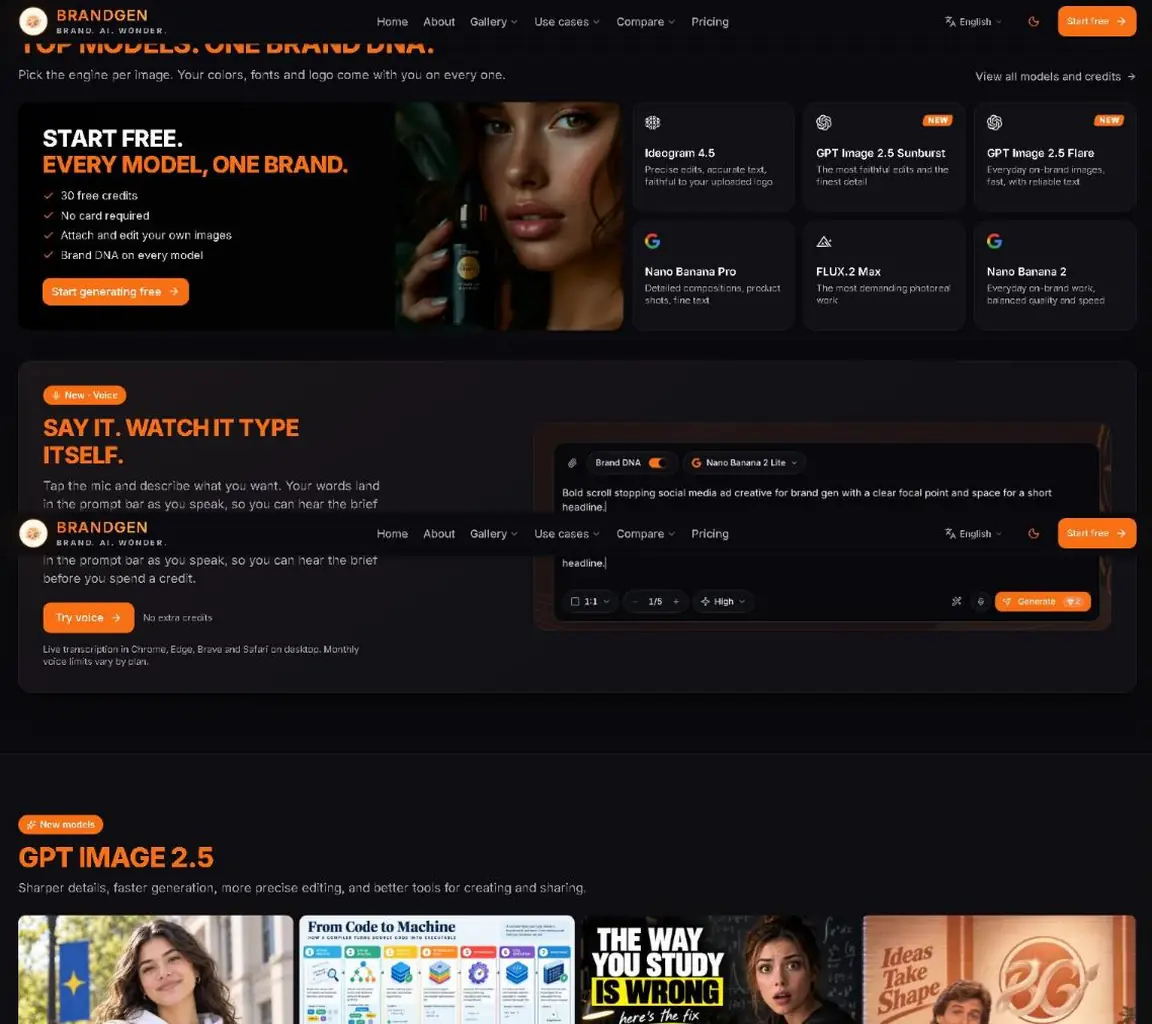
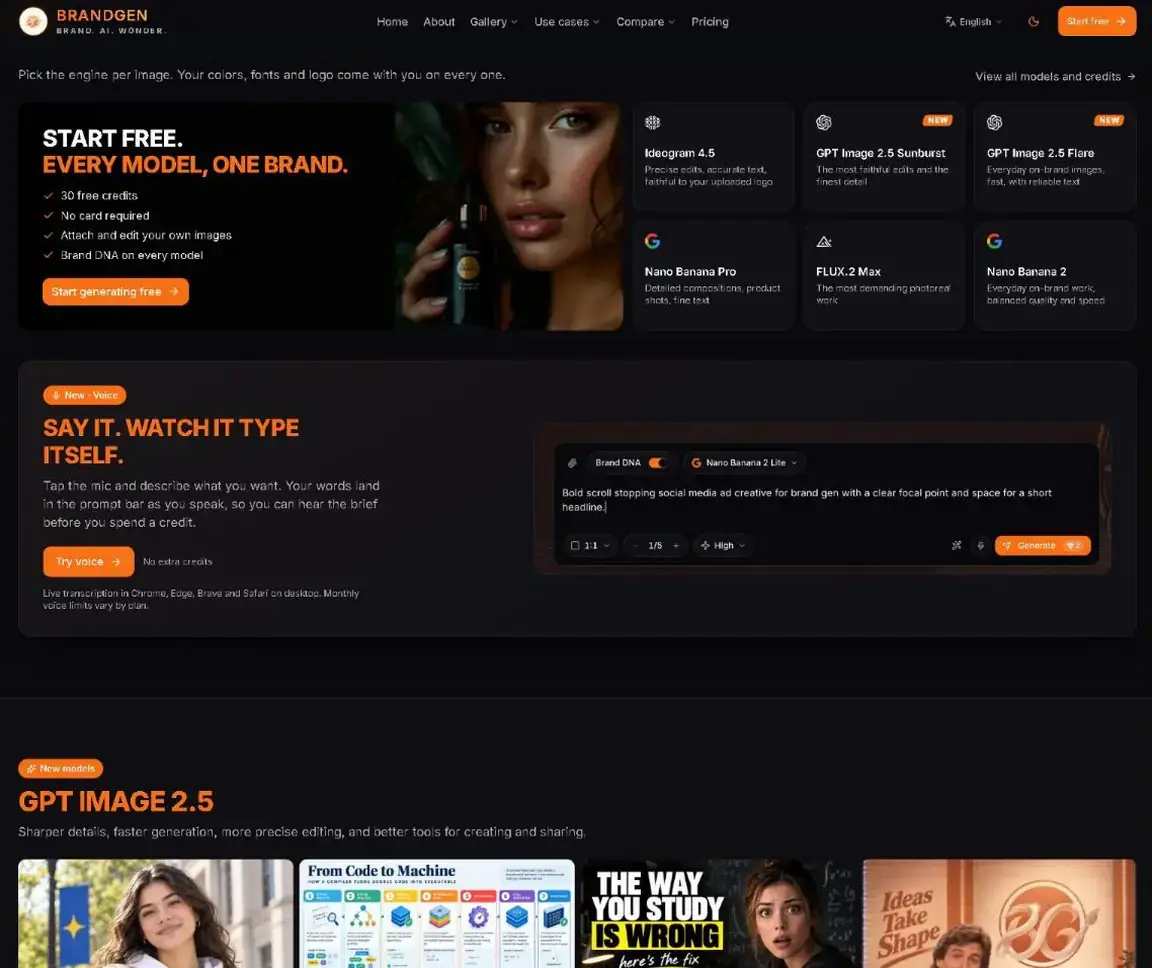
Final QA fixes: hero stats fit phones, BrandGen screenshot repaired, one bug-fix wording
- Focus-page hero stats: rows with a price range use a smaller number size on
  phones, so "₹4.4k–₹9.4k" and "₹10k–₹80k" no longer run into the next stat
- Home stats: labels no longer touch the dividers at 390px
- BrandGen work screenshot: removed the sticky header that was stitched into
  the middle and the heading cut off under the top bar
- After-launch support: step 04 now says the same "15–30 day bug-fix window"
  as the strip, pricing and FAQs
- Home hero search card: "Found on Google" instead of "Found, first page"
  (no ranking promise); website card "From ₹25,000, fixed"
- Meta descriptions trimmed to ≤160 characters on 5 pages
- Footer: location stated once; GA placeholder comment removed
- Freelancer guide: price card stays at the top of the sources column

Claude-Session: https://claude.ai/code/session_01PnNqLetZa1qM7x4YyDRdo5

diff --git a/source/src/index.src.html b/source/src/index.src.html
@@ -33,10 +33,6 @@
 <meta name="twitter:image:alt" content="U Scale by Mehul Karotra: Be found. Be chosen.">
 <link rel="preload" href="/assets/fonts/anton-latin.woff2" as="font" type="font/woff2" crossorigin><link rel="preload" href="/assets/fonts/inter-latin.woff2" as="font" type="font/woff2" crossorigin>
 <script type="application/ld+json">{{JSONLD}}</script>
-<!-- TODO: GA4 measurement ID. Replace G-XXXXXXXXXX and uncomment to go live:
-<script async src="https://www.googletagmanager.com/gtag/js?id=G-XXXXXXXXXX"></script>
-<script>window.dataLayer=window.dataLayer||[];function gtag(){dataLayer.push(arguments);}gtag('js',new Date());gtag('config','G-XXXXXXXXXX');</script>
--->
 <script>
 /* Intro gate: the loader plays once per browser session. Runs before first paint so returning visitors never see a flash. */
 (function(){var d=document.documentElement;d.classList.add('js');
@@ -360,7 +356,7 @@ if(m==='off')d.classList.add('rm');if(navigator.webdriver)d.classList.add('agent
   <div class="footer__big" aria-hidden="true" data-progress="foot"><span class="fb fb-out" data-t="By Mehul Karotra."></span><span class="fb-fill"><span class="fb">By Mehul Karotra.</span></span></div>
   <div class="wrap footer__bottom">
     <div class="footer__legal">
-      <p>© 2026 U Scale by Mehul Karotra · Mumbai, India.</p>
+      <p>© 2026 U Scale by Mehul Karotra.</p>
       <address class="footer__nap">Mumbai, Maharashtra · Serving Mumbai, Thane, Navi Mumbai &amp; clients across India · <a href="tel:+917977360142">+91 79773 60142</a> · <a href="mailto:uscalewithus@gmail.com">uscalewithus@gmail.com</a></address>
       <p class="footer__sister"><span>Sister company</span> <a href="https://www.apex36tech.com/" target="_blank" rel="noopener"><img src="/assets/apex36-mark.webp" width="22" height="19" alt="" loading="lazy" decoding="async">Apex36 Technologies<span class="sr-only"> (opens in a new tab)</span></a></p>
     </div>

diff --git a/source/src/seo.css b/source/src/seo.css
@@ -330,6 +330,7 @@ html.pin-ok .sp-process .step{opacity:1;transform:none}
 .fp-stats .stat__label{font-size:11.5px;letter-spacing:.08em;line-height:1.3;margin-top:7px}
 .fp-stats .stat{padding-right:8px}
 .fp-stats .stat+.stat{padding-left:clamp(10px,2.2vw,26px)}
+.fp-stats .stat__num--long{font-size:clamp(17px,4.6vw,30px)}
 @media (min-width:1024px){
   .fp-hero{grid-template-columns:minmax(0,1fr) minmax(0,1.08fr);align-items:center;column-gap:clamp(28px,3.4vw,56px)}
   .fp-art--img{max-width:660px;margin-right:clamp(-28px,-1.6vw,0px)}
@@ -753,7 +754,7 @@ html.pin-ok .sp-process .step{opacity:1;transform:none}
 .fp-pricecard b{grid-column:1;font:400 clamp(26px,3vw,34px)/1 var(--display);text-transform:uppercase;letter-spacing:.01em}
 .fp-pricecard>.fp-ic{grid-column:2;grid-row:1 / span 2;width:40px;height:40px;padding:10px;border-radius:50%;background:var(--violet);color:var(--white);transition:transform .4s var(--ease-out)}
 .fp-pricecard:hover>.fp-ic{transform:rotate(45deg)}
-@media (min-width:860px){.fp-foot{grid-template-columns:minmax(0,1.6fr) minmax(0,1fr);gap:16px;align-items:stretch}}
+@media (min-width:860px){.fp-foot{grid-template-columns:minmax(0,1.6fr) minmax(0,1fr);gap:16px;align-items:stretch}.fp-pricecard{align-self:start;position:sticky;top:calc(var(--header-h) + 16px)}}
 
 /* ---- related pages ---- */
 .fp-related{margin-top:clamp(28px,4vw,48px);display:grid;gap:14px}

diff --git a/source/src/styles.css b/source/src/styles.css
@@ -570,8 +570,8 @@ html.menu-open{overflow:hidden}
   .plan{padding:22px 20px}
   .pts{padding:20px 18px}
   .stats{grid-template-columns:auto auto auto;justify-content:space-between}
-  .stat{padding-right:0}
-  .stat + .stat{padding-left:14px}
+  .stat{padding-right:10px}
+  .stat + .stat{padding-left:12px}
   .stat__label{font-size:10.5px;letter-spacing:.06em}
   .channel{grid-template-columns:44px minmax(0,1fr) auto;gap:12px;padding:14px 16px}
   .channel__icon{width:44px;height:44px}

diff --git a/source/build/seo_pages.py b/source/build/seo_pages.py
@@ -16,7 +16,7 @@ WA = 'https://wa.me/917977360142?text=Hi%20Mehul%2C%20I%27d%20like%20to%20talk%2
 SERVICES = [
  dict(slug='website-design-mumbai', short='Website design', cta='website', name='Website Design & Development',
   title='Website Design in Mumbai from ₹25,000, Fixed Price | U Scale',
-  desc='Custom websites for Mumbai businesses, designed in Figma and hand-coded by Mehul Karotra. Landing page ₹25,000, business site ₹55,000, store from ₹95,000; live in 4–8 weeks.',
+  desc='Custom websites for Mumbai businesses, designed in Figma and hand-coded by Mehul Karotra. Landing page ₹25,000, business site ₹55,000; live in 4–8 weeks.',
   h1='Website design & development in Mumbai',
   lead='I am a freelance web designer and developer in Mumbai. I design every page in Figma and build it by hand, so what you approve is exactly what goes live, at a fixed price agreed before I start.',
   who='For clinics, schools, studios, cafés, startups and founders who need a site that looks premium, loads fast on a phone and turns visitors into WhatsApp chats, calls and enquiries.',
@@ -29,7 +29,7 @@ SERVICES = [
   steps=[('Audit','I review your current site or competitors and agree the goals, pages and must-haves.'),
          ('Design','You see real screens in Figma, desktop and mobile, and we refine them together.'),
          ('Build','I code the approved design, connect forms and analytics, and test on phones and browsers.'),
-         ('Launch','Domain, hosting, Search Console and a final check. Then small tweaks are on me for two weeks.')],
+         ('Launch','Domain, hosting, Search Console and a final check. Then bug fixes are free in the 15–30 day bug-fix window.')],
   price='Landing pages ₹25,000, business sites from ₹55,000, a 5–10 page site with blog ₹85,000, online stores from ₹95,000 and restaurant sites with online ordering ₹90,000. A redesign of your current site is 70% of the price of a fresh build, and a care plan is ₹3,500/month.',
   work=['tis','antrah','roar','sashe','vidhi','growcred'],
   faq=[('How much does a website cost in Mumbai?','It depends on the number of pages and features. I quote a fixed price after a free audit, so there are no surprises and no hourly billing.'),
@@ -39,7 +39,7 @@ SERVICES = [
        ('Can you redesign my existing website?','Yes. I start with an audit of what works and what leaks enquiries, then redesign around that.')]),
  dict(slug='seo-mumbai', short='SEO', cta='SEO', name='SEO Services',
   title='SEO Services in Mumbai: Local & Technical | U Scale',
-  desc='Local SEO and Google Business Profile from ₹15,000 a month, technical SEO ₹25,000, done personally by Mehul Karotra in Mumbai. Expect 3–6 months; no ranking guarantees.',
+  desc='Local SEO and Google Business Profile from ₹15,000 a month, technical SEO ₹25,000, by Mehul Karotra in Mumbai. Expect 3–6 months; no ranking guarantees.',
   h1='SEO services in Mumbai',
   lead='I work as a freelance SEO consultant for Mumbai businesses, helping you show up when nearby customers search on Google and Maps. Local SEO, technical fixes and content, done personally, with honest monthly reporting.',
   who='For local businesses that depend on people searching "near me", and for service businesses that want steady enquiries without paying for every click.',
@@ -106,7 +106,7 @@ SERVICES = [
        ('Will I see where my money goes?','Yes. You own the ad accounts and get a monthly report showing spend, leads and cost per lead.')]),
  dict(slug='ai-search-visibility', short='AI search', cta='AI search visibility', name='AI Search Visibility (GEO)',
   title='AI Search Visibility (GEO) for Indian Businesses | U Scale',
-  desc='See what ChatGPT, Gemini and Google AI say about your business, then fix the facts, reviews and pages they draw on. ₹12,000 a month or a ₹2,500 audit. No guarantees.',
+  desc='See what ChatGPT, Gemini and Google AI say about your business, then fix the facts and pages they draw on. ₹12,000 a month or a ₹2,500 audit. No guarantees.',
   h1='AI search visibility (GEO)',
   lead="When someone asks ChatGPT, Gemini or Google's AI Mode for a recommendation in your category, is your business mentioned, and is what they say correct? I check what AI tools say about you today, then fix the facts, reviews, listings and pages they draw on. No one can guarantee a mention; I show you what changed every month.",
   who='For local businesses whose customers already ask AI assistants for recommendations, and who want those answers to get their name, services, prices and area right.',
@@ -1283,8 +1283,8 @@ def pricing_page(ctx, parts):
     header, menu, footer, tail = parts
     url = site + 'pricing'
     title = 'Website Design Cost & Prices in Mumbai | U Scale'
-    desc = ('Every price, published: websites from ₹25,000, local SEO ₹15,000/month, ads management ₹20,000/month and one-off work from ₹800. '
-            'Web design and marketing by Mehul Karotra, Mumbai.')
+    desc = ('Every price published: websites from ₹25,000, local SEO ₹15,000/month, ads management ₹20,000/month, '
+            'one-off work from ₹800. By Mehul Karotra, Mumbai.')
     faq = [ctx['FAQ'][i] for i in PRICING_FAQ_IDX]
     ld = json.dumps({'@context': 'https://schema.org', '@graph': [
         {'@type': 'WebPage', '@id': url + '#webpage', 'url': url, 'name': title, 'description': desc, 'isPartOf': {'@id': site + '#website'},

diff --git a/source/build/geo_pages.py b/source/build/geo_pages.py
@@ -287,7 +287,7 @@ PAGES = [
        f'{price("E-commerce, under 50 products")}. Designed by Mehul Karotra.',
   h1='Boutique & clothing store websites', eyebrow='Websites by business',
   lead='A catalogue your Instagram followers can browse properly, product pages Google can find, and orders on WhatsApp or online. Fixed price.',
-  stats=[(price('Business site, 3–4 pages'), 'Catalogue site, from'), (price('E-commerce, under 50 products'), 'Online store, under 50 products'), ('1 tap', 'To order on WhatsApp')],
+  stats=[(price('Business site, 3–4 pages'), 'Catalogue sites from'), (price('E-commerce, under 50 products'), 'Online store, under 50 products'), ('1 tap', 'To order on WhatsApp')],
   art=dict(kind='img', img='bout', chips=[('chat', 'Order on WhatsApp'), ('tag', 'Size M · ₹3,450')]),
   answer='U Scale designs and builds websites for boutiques, saree shops and fashion labels in Mumbai: a catalogue site with an “Order on WhatsApp” '
          f'button on every product, or a full online store with cart and payments from {price("E-commerce, under 50 products")} for under 50 products. '
@@ -566,8 +566,8 @@ PAGES = [
   card='Price ranges from 16 published guides, who each option suits, and what to watch for.',
   service='Freelancer vs agency vs DIY website builder, Mumbai (2026)',
   title='Freelancer vs Agency vs Website Builder (2026) | U Scale',
-  desc='Should a Mumbai business hire a freelancer, an agency or use a DIY website builder? Price ranges from 16 published price guides '
-       '(2025–26), who each option suits, and what to watch for.',
+  desc='Freelancer, agency or DIY website builder for a Mumbai business? Price ranges from 16 published guides (2025–26), '
+       'who each one suits and what to watch for.',
   h1='Freelancer, agency or website builder?', eyebrow='Guide · Compared',
   lead='Should a Mumbai business hire a freelancer, an agency or build its website on a DIY builder? I run U Scale, so I have a side: the price ranges here come from 16 published price guides (2025–26), listed below, not from my own prices.',
   stats=[('₹10k–₹80k', 'Freelancer'), ('₹50k–₹3L', 'Agency'), ('16', 'Price guides, listed below')],
@@ -1128,7 +1128,11 @@ def lead_html(t, at=110):
 
 def _hero(p, wa, icons):
     hi = _hi(p)
-    stats = ''.join(f'<li class="stat"><span class="stat__num">{e(n)}</span><span class="stat__label">{e(l)}</span></li>' for n, l in p['stats'])
+    # long values (price ranges) get a smaller size on phones so they never run into the next stat
+    # (the whole row shares one size, so the three numbers stay even)
+    long = ' stat__num--long' if any(len(n) >= 8 for n, _ in p['stats']) else ''
+    stats = ''.join(f'<li class="stat"><span class="stat__num{long}">{e(n)}</span><span class="stat__label">{e(l)}</span></li>'
+                    for n, l in p['stats'])
     see = 'Prices dekhiye' if hi else 'See prices & facts'
     talk = 'WhatsApp pe free audit' if hi else 'Free audit on WhatsApp'
     return f'''  <div class="wrap hero-shell">
@@ -1187,7 +1191,7 @@ def _how(p):
         steps = [('Free audit', 'Aapki website, Google listing aur Instagram dekhta hoon, goals aur pages tay karte hain.', 'Free'),
                  ('Likhit plan', 'Kaun se pages, kab tak, aur exact price, kuch bhi pay karne se pehle likhit mein.', 'Fixed price'),
                  ('Design aur build', 'Figma mein asli screens, desktop aur mobile. Aap approve karte ho, phir main code karke phones pe test karta hoon.', '20% shuru mein · 20% design approve pe'),
-                 ('Launch', 'Domain, hosting, Search Console aur final check. Phir chhote tweaks do hafte tak free.', '60% launch pe')]
+                 ('Launch', 'Domain, hosting, Search Console aur final check. Phir 15–30 din ki bug-fix window mein fixes free.', '60% launch pe')]
         promise = [('key', 'Domain, code aur logins aapke naam'), ('file', 'Price kaam se pehle likhit mein'), ('shield', 'Launch ke baad 15–30 din bug-fix')]
     else:
         head, sub = 'Fixed price. No surprises.', 'From free audit to launch, in four steps.'
@@ -1195,7 +1199,7 @@ def _how(p):
         steps = [('Free audit', 'I check your website, Google listing and Instagram, and we agree the goals, pages and must-haves.', 'Free'),
                  ('Written plan', 'What I will build, by when, and the exact price, in writing before you pay anything.', 'Fixed price'),
                  ('Design & build', 'You approve real screens in Figma, desktop and mobile, before I code them and test on phones.', '20% to start · 20% on design sign-off'),
-                 ('Launch', 'Domain, hosting, Search Console and a final check. Then small tweaks are on me for two weeks.', '60% on launch')]
+                 ('Launch', 'Domain, hosting, Search Console and a final check. Then bug fixes are free in the 15–30 day bug-fix window.', '60% on launch')]
         promise = [('key', 'Your domain, code and logins, in your name'), ('file', 'Price fixed in writing before work starts'), ('shield', '15–30 day bug-fix window after launch')]
     shots, sz = ['step-audit', 'step-plan', 'step-design', 'step-launch'], '(max-width: 759px) 82vw, (max-width: 1099px) 46vw, 290px'
     li = ''.join(f'<li class="fp-step" data-reveal>{_shot(shots[i], sz, "fp-step__media")}<div class="fp-step__body"><span class="fp-step__n" aria-hidden="true">{i + 1:02d}</span><h3>{e(t)}</h3><p>{e(d)}</p>'

diff --git a/source/build/build_site.py b/source/build/build_site.py
@@ -110,7 +110,7 @@ growth = (
     '<span class="gs__badge" aria-hidden="true"><svg viewBox="0 0 24 24"><path d="M7 17 17 7M9 7h8v8"/></svg></span>'
     '</div>'
     '<div class="hf hf--search" aria-hidden="true"><div class="hf__bar"><svg viewBox="0 0 24 24"><circle cx="11" cy="11" r="6.5"/><path d="m16 16 4 4"/></svg><span data-hf-q>web designer in mumbai</span><i class="hf__caret"></i></div>'
-    '<div class="hf__res"><span class="hf__fav"></span><span><b>Your business</b><small>Found, first page</small></span></div></div>'
+    '<div class="hf__res"><span class="hf__fav"></span><span><b>Your business</b><small>Found on Google</small></span></div></div>'
     '<div class="hf hf--toast" aria-hidden="true"><span class="hf__wa"><svg viewBox="0 0 24 24"><path d="M5 19l1.2-3.6A7.5 7.5 0 1 1 9 18.6z"/></svg></span><span><b>New enquiry</b><small>WhatsApp · just now</small></span></div>')
 
 cta_bars = ('<svg viewBox="0 0 400 320" preserveAspectRatio="xMaxYMax meet" aria-hidden="true" focusable="false">'

diff --git a/source/build/home_parts.py b/source/build/home_parts.py
@@ -69,7 +69,7 @@ def services3():
         dict(cls=' svc3__card--web on-dark', viz='web', ic='globe', k='Get a website', h='A website that brings you enquiries',
              p='Designed in Figma and hand-coded, mobile first, with WhatsApp and call buttons where people decide.',
              chips=['Landing pages', 'Business sites', 'Online stores', 'Restaurant ordering'],
-             price=f'{price("Landing page")} to {price("E-commerce, under 50 products")}, fixed',
+             price=f'From {price("Landing page")}, fixed',
              links=[('/services/website-design-mumbai', 'Website design in Mumbai')]),
         dict(cls='', viz='found', ic='pin', k='Get found', h='Show up on Google, Maps and AI answers',
              p='Your Google Business Profile, local and technical SEO, and getting named when people ask ChatGPT or Gemini.',
